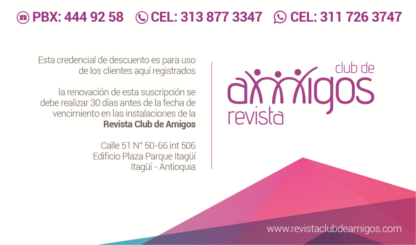
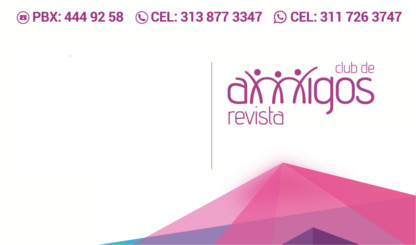
carnet back html

diff --git a/resources/views/license/carnet.blade.php b/resources/views/license/carnet.blade.php
@@ -75,6 +75,26 @@
 		    margin-left: 12px;
 		}
 
+		/*
+		.mini_contenedor_back::before{
+			content: "Esta credencial de descuento es para uso de los clientes aquí registrados <b>hola</b>";
+			position: absolute;
+		    margin-left: 15px;
+		    margin-top: 60px;
+		    font-size: 12px;
+		    width: 180px;
+    		text-align: right;
+		}
+		*/
+
+		.cont_back{
+			margin-left: 0px;
+		    margin-top: 60px;
+		    font-size: 11px;
+		    width: 200px;
+		    text-align: right;
+		}
+
 		.mini_contenedor_relleno{
 			width: 363px;
 		    height: 245px;
@@ -228,35 +248,43 @@
 					<div class="page_conteiner">
 						<!--Back-->
 						<div class="cnt_conteiner">	
-							<div class="mini_contenedor_back">	
+							<div class="mini_contenedor_back">
+								<div class="cont_back">Esta credencial de descuento es para uso de los clientes aquí registrados<br><br>La actualización de la misma está condicionada por el acuerdo con la <b>Revista Club de Amigos</b> <br><br> Calle 51 Nº 50-66 int 506<br>Edificio Plaza Parque Itaguí<br> Itaguí - Antioquia </div>
 							</div>
 						</div>
 						<div class="cnt_conteiner">	
-							<div class="mini_contenedor_back">	
+							<div class="mini_contenedor_back">
+								<div class="cont_back">Esta credencial de descuento es para uso de los clientes aquí registrados<br><br>La actualización de la misma está condicionada por el acuerdo con la <b>Revista Club de Amigos</b> <br><br> Calle 51 Nº 50-66 int 506<br>Edificio Plaza Parque Itaguí<br> Itaguí - Antioquia </div>
 							</div>
 						</div>
 						<div class="cnt_conteiner">	
-							<div class="mini_contenedor_back">	
+							<div class="mini_contenedor_back">
+								<div class="cont_back">Esta credencial de descuento es para uso de los clientes aquí registrados<br><br>La actualización de la misma está condicionada por el acuerdo con la <b>Revista Club de Amigos</b> <br><br> Calle 51 Nº 50-66 int 506<br>Edificio Plaza Parque Itaguí<br> Itaguí - Antioquia </div>
 							</div>
 						</div>
 						<div class="cnt_conteiner">	
-							<div class="mini_contenedor_back">	
+							<div class="mini_contenedor_back">
+								<div class="cont_back">Esta credencial de descuento es para uso de los clientes aquí registrados<br><br>La actualización de la misma está condicionada por el acuerdo con la <b>Revista Club de Amigos</b> <br><br> Calle 51 Nº 50-66 int 506<br>Edificio Plaza Parque Itaguí<br> Itaguí - Antioquia </div>
 							</div>
 						</div>
 						<div class="cnt_conteiner">	
-							<div class="mini_contenedor_back">	
+							<div class="mini_contenedor_back">
+								<div class="cont_back">Esta credencial de descuento es para uso de los clientes aquí registrados<br><br>La actualización de la misma está condicionada por el acuerdo con la <b>Revista Club de Amigos</b> <br><br> Calle 51 Nº 50-66 int 506<br>Edificio Plaza Parque Itaguí<br> Itaguí - Antioquia </div>
 							</div>
 						</div>
 						<div class="cnt_conteiner">	
-							<div class="mini_contenedor_back">	
+							<div class="mini_contenedor_back">
+								<div class="cont_back">Esta credencial de descuento es para uso de los clientes aquí registrados<br><br>La actualización de la misma está condicionada por el acuerdo con la <b>Revista Club de Amigos</b> <br><br> Calle 51 Nº 50-66 int 506<br>Edificio Plaza Parque Itaguí<br> Itaguí - Antioquia </div>
 							</div>
 						</div>
 						<div class="cnt_conteiner">	
-							<div class="mini_contenedor_back">	
+							<div class="mini_contenedor_back">
+								<div class="cont_back">Esta credencial de descuento es para uso de los clientes aquí registrados<br><br>La actualización de la misma está condicionada por el acuerdo con la <b>Revista Club de Amigos</b> <br><br> Calle 51 Nº 50-66 int 506<br>Edificio Plaza Parque Itaguí<br> Itaguí - Antioquia </div>
 							</div>
 						</div>
 						<div class="cnt_conteiner">	
-							<div class="mini_contenedor_back">	
+							<div class="mini_contenedor_back">
+								<div class="cont_back">Esta credencial de descuento es para uso de los clientes aquí registrados<br><br>La actualización de la misma está condicionada por el acuerdo con la <b>Revista Club de Amigos</b> <br><br> Calle 51 Nº 50-66 int 506<br>Edificio Plaza Parque Itaguí<br> Itaguí - Antioquia </div>
 							</div>
 						</div>
 					</div>
@@ -279,7 +307,8 @@
 				<div class="page_conteiner">
 				@for($i=0 ;$i< intval(count($cnts)); $i++)	
 					<div class="cnt_conteiner">	
-						<div class="mini_contenedor_back">	
+						<div class="mini_contenedor_back">
+							<div class="cont_back">Esta credencial de descuento es para uso de los clientes aquí registrados<br><br>La actualización de la misma está condicionada por el acuerdo con la <b>Revista Club de Amigos</b> <br><br> Calle 51 Nº 50-66 int 506<br>Edificio Plaza Parque Itaguí<br> Itaguí - Antioquia </div>
 						</div>
 					</div>
 				@endfor
@@ -299,7 +328,8 @@
 				<div class="page_conteiner">
 				@for($i=0 ;$i< intval(count($cnts)%8); $i++)				
 					<div class="cnt_conteiner">	
-						<div class="mini_contenedor_back">	
+						<div class="mini_contenedor_back">
+							<div class="cont_back">Esta credencial de descuento es para uso de los clientes aquí registrados<br><br>La actualización de la misma está condicionada por el acuerdo con la <b>Revista Club de Amigos</b> <br><br> Calle 51 Nº 50-66 int 506<br>Edificio Plaza Parque Itaguí<br> Itaguí - Antioquia </div>
 						</div>
 					</div>
 				@endfor
